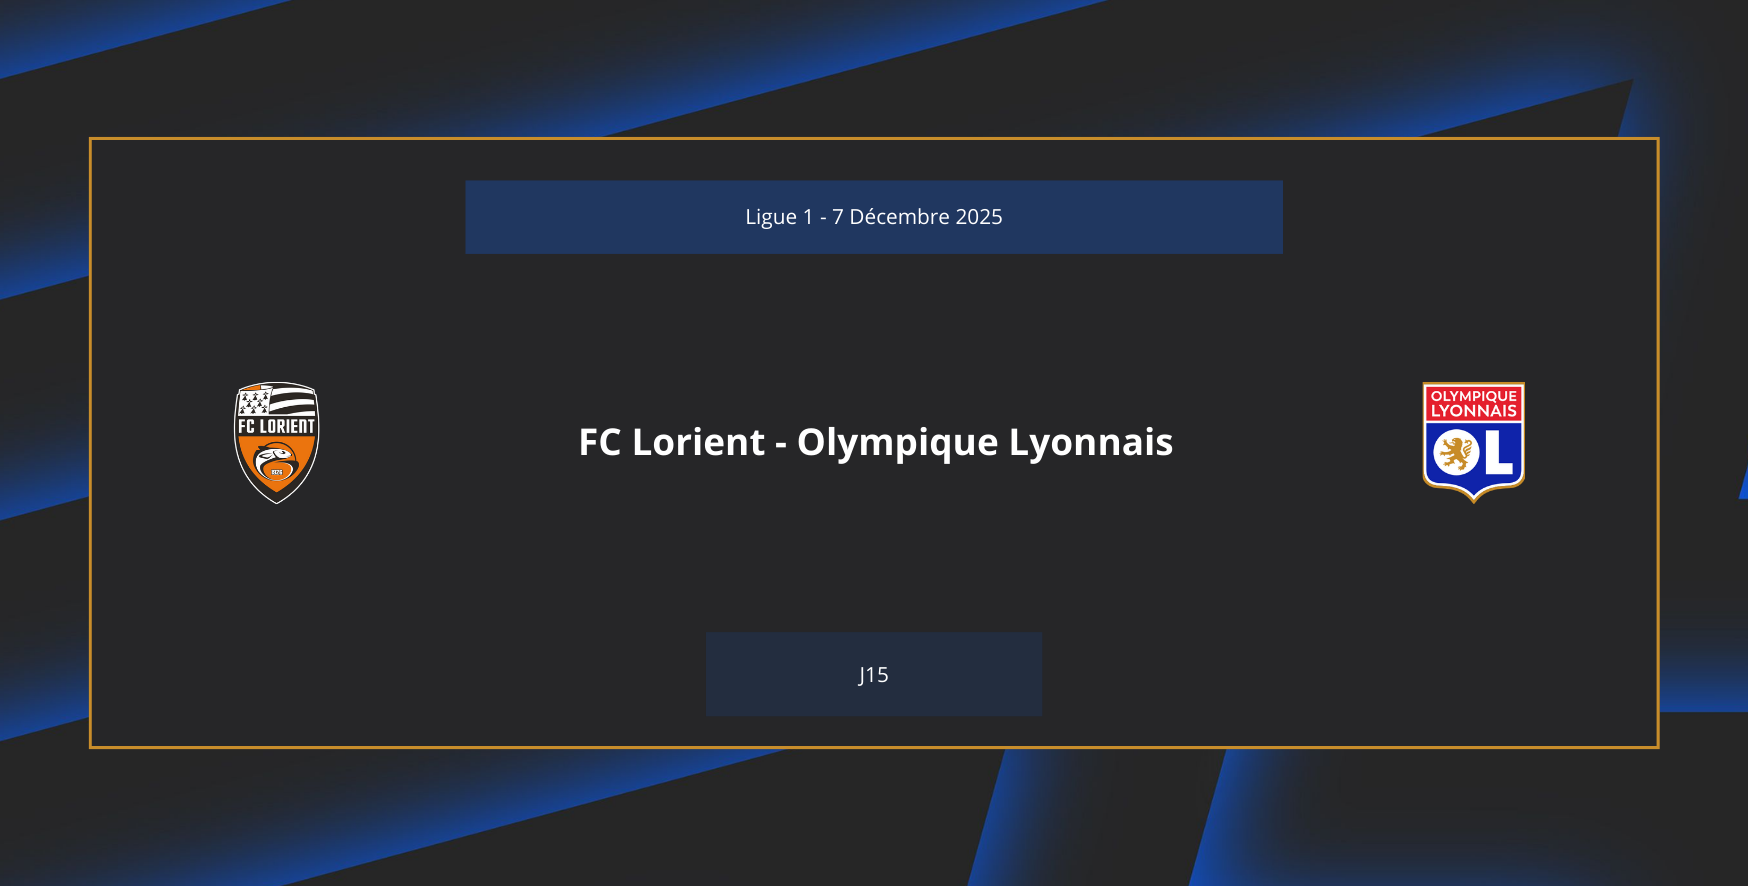
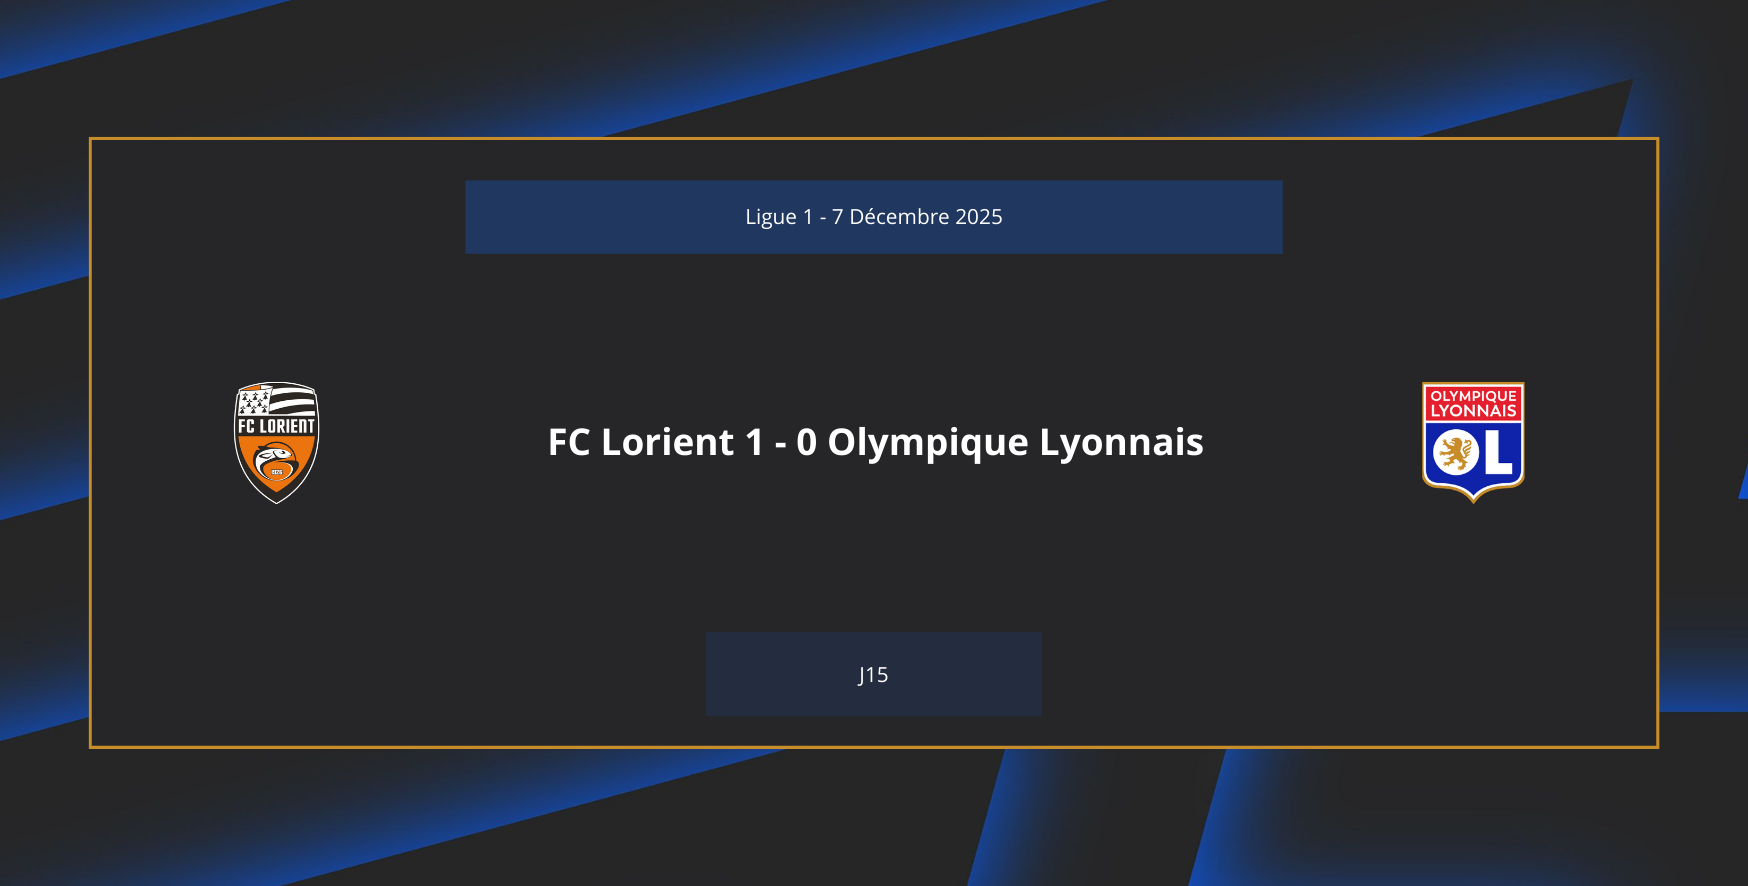
MAJ des données L1 après les matchs de ce week-end

Changed region(s): [[0.3089, 0.4876, 0.7105, 0.5181], [0.8032, 0.4266, 0.865, 0.5181]]

diff --git a/index.html b/index.html
@@ -62,6 +62,11 @@
                     <section class="bordure">
                         <h3>Dernier Match</h3>
                         <article class="sous_box">
+                            <img src="/image_match/FCL - OL.png" alt="FC Lorient 1 - 0 Olympique Lyonnais" width="80%">
+                            <p class="bouton">Voir le match</p>
+                        </article>
+
+                        <article class="sous_box">
                             <img src="/image_match/OL - FCN.png" alt="Olympique Lyonnais 3 - 0 FC Nante" width="80%">
                             <p class="bouton">Voir le match</p>
                         </article>
@@ -76,10 +81,6 @@
                             <p class="bouton">Voir le match</p>
                         </article>
 
-                        <article class="sous_box">
-                            <img src="/image_match/OL-PSG.png" alt="Olympique Lyonnais 2 - 3 Paris SG" width="80%">
-                            <p class="bouton">Voir le match</p>
-                        </article>
                         <a href="match.html" class="bouton-fin">Voir plus de match</a>
                     </section>
                 </div>
@@ -87,15 +88,15 @@
                     <section class="bordure">
                         <h3>Match à venir</h3>
                         <article class="sous_box">
-                            <img src="/image_match/FCL - OL.png" alt="FC Lorient - Olympique Lyonnais" width="80%">
-                            <p class="bouton">Voir le match</p>
-                        </article>
-                        <article class="sous_box">
                             <img src="/image_match/OL - GAE.png" alt="Olympique Lyonnais - Go Ahead Eagles" width="80%">
                             <p class="bouton">Voir le match</p>
                         </article>
                         <article class="sous_box">
                             <img src="/image_match/OL-HAC.png" alt="Olympique Lyonnais - Havre AC" width="80%">
+                            <p class="bouton">Voir le match</p>
+                        </article>
+                        <article class="sous_box">
+                            <img src="/image_match/FCSCC-OL.png" alt="FC Saint Cyr Collonge - Ol" width="80%">
                             <p class="bouton">Voir le match</p>
                         </article>
                         <a href="match.html" class="bouton-fin">Voir plus de match</a>
@@ -115,43 +116,43 @@
                             </thead>
                             <tbody>
                                 <tr>
+                                    <td>2</td>
+                                    <td>...</td>
+                                    <td>...</td>
+                                    <td>...</td>
+                                </tr>
+                                <tr>
                                     <td>3</td>
-                                    <td>...</td>
-                                    <td>...</td>
-                                    <td>...</td>
+                                    <td>Olympique de Marseille</td>
+                                    <td>29</td>
+                                    <td>+20</td>
                                 </tr>
                                 <tr>
                                     <td>4</td>
                                     <td>Lille OSC</td>
-                                    <td>26</td>
-                                    <td>+11</td>
+                                    <td>29</td>
+                                    <td>+12</td>
                                 </tr>
                                 <tr>
-                                    <td>5</td>
-                                    <td>Stade de Renne</td>
-                                    <td>24</td>
-                                    <td>+6</td>
+                                    <td><b>5</b></td>
+                                    <td><b>Olympique Lyonnais</b></td>
+                                    <td><b>24</b></td>
+                                    <td><b>+5</b></td>
                                 </tr>
                                 <tr>
                                     <td>6</td>
-                                    <td>Olympique Lyonnais</td>
+                                    <td>Stade Rennais</td>
                                     <td>24</td>
-                                    <td>+6</td>
+                                    <td>+1</td>
                                 </tr>
                                 <tr>
                                     <td>7</td>
                                     <td>AS Monaco</td>
                                     <td>23</td>
-                                    <td>+1</td>
+                                    <td>0</td>
                                 </tr>
                                 <tr>
                                     <td>8</td>
-                                    <td>RC Strasbourg</td>
-                                    <td>22</td>
-                                    <td>+6</td>
-                                </tr>
-                                <tr>
-                                    <td>9</td>
                                     <td>...</td>
                                     <td>...</td>
                                     <td>...</td>
@@ -236,7 +237,7 @@
         </main>
 
         <footer>
-            <p class="nom_foot">©OL Fan 2025 - Mathieu AUSSANT S4<br/>Dernière mise-à-jour : 06/12/25</p>
+            <p class="nom_foot">©OL Fan 2025 - Mathieu AUSSANT S4<br/>Dernière mise-à-jour : 08/12/25</p>
             <section class="copy_sec">
                 <article class="copy">
                     <p>Copyrights image : </p>

diff --git a/match.html b/match.html
@@ -57,9 +57,13 @@
         </nav>
 
         <main>
-            <h3>Match Fini</h3>
+            <h3>Matchs Fini</h3>
             <p class="note">Note : Les matchs se lisent colonne par colonne</p>
             <section class="regroupement-match">
+                <div class="match">
+                    <img src="/image_match/FCL - OL.png" alt="FC Lorien-Olympique Lyonnais">
+                    <a class="bouton">Consulter</a>
+                </div>
                 <div class="match">
                     <img src="/image_match/OL - FCN.png" alt="OL 3 - 0 FC Nante">
                     <a class="bouton">Consulter</a>
@@ -68,13 +72,13 @@
                     <img src="/image_match/MTA-OL.png" alt="Macabi Tel Aviv 0 - 6 OL">
                     <a class="bouton">Consulter</a>
                 </div>
-                <div class="match">
-                    <img src="/image_match/AJ-OL.png" alt="Olympique Lyonnais 0- 0 AJA">
-                    <a class="bouton">Consulter</a>
-                </div>
 
                 <details class="bouton-plus-style">
                     <summary class="bouton-plus">Voir plus</summary>
+                    <div class="match">
+                        <img src="/image_match/AJ-OL.png" alt="Olympique Lyonnais 0- 0 AJA">
+                        <a class="bouton">Consulter</a>
+                    </div>
                     <div class="match">
                         <img src="/image_match/OL-PSG.png" alt="Olympique Lyonnais 2-3 PSG">
                         <a class="bouton">Consulter</a>
@@ -146,10 +150,6 @@
             <p class="note">Note : Les matchs se lisent colonne par colonne</p>
             <section class="regroupement-match">
                 <div class="match">
-                    <img src="/image_match/FCL - OL.png" alt="FC Lorien-Olympique Lyonnais">
-                    <a class="bouton">Consulter</a>
-                </div>
-                <div class="match">
                     <img src="/image_match/OL - GAE.png" alt="Olympique Lyonnais-Go Ahead Eagles">
                     <a class="bouton">Consulter</a>
                 </div>
@@ -157,13 +157,13 @@
                     <img src="/image_match/OL-HAC.png" alt="Olympique Lyonnais-Havre AC">
                     <a class="bouton">Consulter</a>
                 </div>
+                <div class="match">
+                        <img src="/image_match/FCSCC-OL.png" alt="FC Saint-Cyr Collonges - OL">
+                        <a class="bouton">Consulter</a>
+                </div>
 
                 <details class="bouton-plus-style">
                     <summary class="bouton-plus">Voir plus</summary>
-                    <div class="match">
-                        <img src="/image_match/FCSCC-OL.png" alt="FC Saint-Cyr Collonges - OL">
-                        <a class="bouton">Consulter</a>
-                    </div>
                     <div class="match">
                         <img src="/image_match/ASM-OL.png" alt="AS Monaco - OL">
                         <a class="bouton">Consulter</a>
@@ -249,7 +249,7 @@
         </main>
 
         <footer>
-            <p class="nom_foot">©OL Fan 2025 - Mathieu AUSSANT S4<br/>Dernière mise-à-jour : 06/12/25</p>
+            <p class="nom_foot">©OL Fan 2025 - Mathieu AUSSANT S4<br/>Dernière mise-à-jour : 08/12/25</p>
             <section class="copy_sec">
                 <article class="copy">
                     <p>Copyrights image : </p>

diff --git a/classements-compétition/compétiton/ligue-1.html b/classements-compétition/compétiton/ligue-1.html
@@ -99,21 +99,21 @@
                 <article class="sous_box">
                     <h5>Titulaires les plus utilisés :</h5>
                     <ul>
-                        <li>Corentin Tolisso - 14 matchs</li>
-                        <li>Moussa Niakhate - 14 matchs</li>
-                        <li>Ainsley Maintland-Niles - 14 matchs</li>
+                        <li>Corentin Tolisso - 15 matchs</li>
+                        <li>Moussa Niakhate - 15 matchs</li>
+                        <li>Ainsley Maintland-Niles - 15 matchs</li>
                 </article>
             </div>
 
             <div class="section">
                 <h4>Derniers Matchs :</h4>
                 <article class="sous_box">
-                    <img src="/image_match/OL - FCN.png" alt="Ol 3-0 FC Nantes" width="80%">
+                    <img src="/image_match/FCL - OL.png" alt="FC Lorient 1-0 ol" width="80%">
                     <p class="bouton"><a>Voir le match</a></p>
                 </article>
                 <h4>Prochains Matchs :</h4>
                 <article class="sous_box">
-                    <img src="/image_match/FCL - OL.png" alt="Fc lorient - OL" width="80%">
+                    <img src="/image_match/OL-HAC.png" alt="Ol - Havre AC" width="80%">
                     <p class="bouton"><a>Voir le match</a></p>
                 </article>
                 <a href="/match.html" class="bouton-fin">Voir tous les matchs</a>
@@ -136,7 +136,7 @@
     </main>
 
         <footer>
-            <p class="nom_foot">©OL Fan 2025 - Mathieu AUSSANT S4<br/>Dernière mise-à-jour : 06/12/25</p>
+            <p class="nom_foot">©OL Fan 2025 - Mathieu AUSSANT S4<br/>Dernière mise-à-jour : 08/12/25</p>
             <section class="copy_sec">
                 <article class="copy">
                     <p>Copyrights image : </p>

diff --git a/ancien-visage.html b/ancien-visage.html
@@ -59,7 +59,7 @@
         </main>
 
         <footer>
-            <p class="nom_foot">©OL Fan 2025 - Mathieu AUSSANT S4<br/>Dernière mise-à-jour : 06/12/25</p>
+            <p class="nom_foot">©OL Fan 2025 - Mathieu AUSSANT S4<br/>Dernière mise-à-jour : 08/12/25</p>
             <section class="copy_sec">
                 <article class="copy">
                     <p>Copyrights image : </p>

diff --git a/ancienne_saison.html b/ancienne_saison.html
@@ -59,7 +59,7 @@
         </main>
 
         <footer>
-            <p class="nom_foot">©OL Fan 2025 - Mathieu AUSSANT S4<br/>Dernière mise-à-jour : 06/12/25</p>
+            <p class="nom_foot">©OL Fan 2025 - Mathieu AUSSANT S4<br/>Dernière mise-à-jour : 08/12/25</p>
             <section class="copy_sec">
                 <article class="copy">
                     <p>Copyrights image : </p>

diff --git a/effectif.html b/effectif.html
@@ -59,7 +59,7 @@
         </main>
 
         <footer>
-            <p class="nom_foot">©OL Fan 2025 - Mathieu AUSSANT S4<br/>Dernière mise-à-jour : 06/12/25</p>
+            <p class="nom_foot">©OL Fan 2025 - Mathieu AUSSANT S4<br/>Dernière mise-à-jour : 08/12/25</p>
             <section class="copy_sec">
                 <article class="copy">
                     <p>Copyrights image : </p>

diff --git a/histoire-club.html b/histoire-club.html
@@ -59,7 +59,7 @@
         </main>
 
         <footer>
-            <p class="nom_foot">©OL Fan 2025 - Mathieu AUSSANT S4<br/>Dernière mise-à-jour : 06/12/25</p>
+            <p class="nom_foot">©OL Fan 2025 - Mathieu AUSSANT S4<br/>Dernière mise-à-jour : 08/12/25</p>
             <section class="copy_sec">
                 <article class="copy">
                     <p>Copyrights image : </p>

diff --git a/palmarès.html b/palmarès.html
@@ -59,7 +59,7 @@
         </main>
 
         <footer>
-            <p class="nom_foot">©OL Fan 2025 - Mathieu AUSSANT S4<br/>Dernière mise-à-jour : 06/12/25</p>
+            <p class="nom_foot">©OL Fan 2025 - Mathieu AUSSANT S4<br/>Dernière mise-à-jour : 08/12/25</p>
             <section class="copy_sec">
                 <article class="copy">
                     <p>Copyrights image : </p>

diff --git a/classements-compétition/classement.html b/classements-compétition/classement.html
@@ -118,7 +118,7 @@
     </main>
 
         <footer>
-            <p class="nom_foot">©OL Fan 2025 - Mathieu AUSSANT S4<br/>Dernière mise-à-jour : 06/12/25</p>
+            <p class="nom_foot">©OL Fan 2025 - Mathieu AUSSANT S4<br/>Dernière mise-à-jour : 08/12/25</p>
             <section class="copy_sec">
                 <article class="copy">
                     <p>Copyrights image : </p>

diff --git a/classements-compétition/compétiton/coupe-de-france.html b/classements-compétition/compétiton/coupe-de-france.html
@@ -117,7 +117,7 @@
     </main>
 
         <footer>
-            <p class="nom_foot">©OL Fan 2025 - Mathieu AUSSANT S4<br/>Dernière mise-à-jour : 06/12/25</p>
+            <p class="nom_foot">©OL Fan 2025 - Mathieu AUSSANT S4<br/>Dernière mise-à-jour : 08/12/25</p>
             <section class="copy_sec">
                 <article class="copy">
                     <p>Copyrights image : </p>

diff --git a/classements-compétition/compétiton/europa-league.html b/classements-compétition/compétiton/europa-league.html
@@ -140,7 +140,7 @@
     </main>
 
         <footer>
-            <p class="nom_foot">©OL Fan 2025 - Mathieu AUSSANT S4<br/>Dernière mise-à-jour : 06/12/25</p>
+            <p class="nom_foot">©OL Fan 2025 - Mathieu AUSSANT S4<br/>Dernière mise-à-jour : 08/12/25</p>
             <section class="copy_sec">
                 <article class="copy">
                     <p>Copyrights image : </p>
